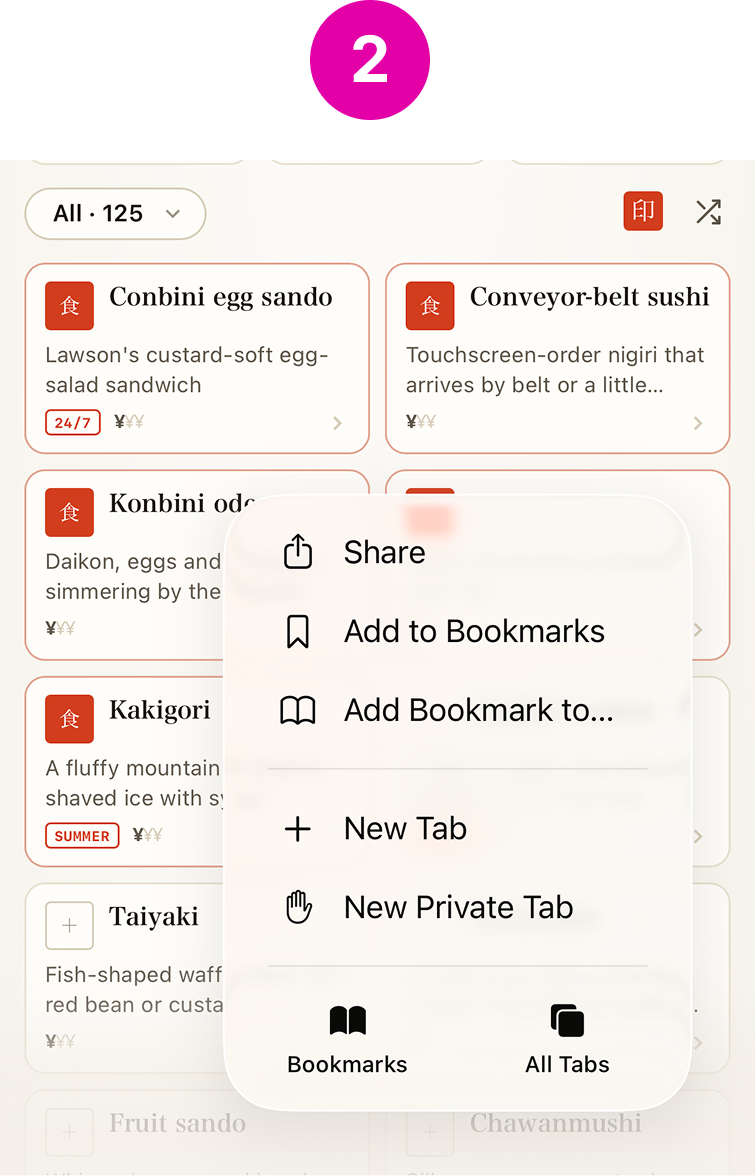
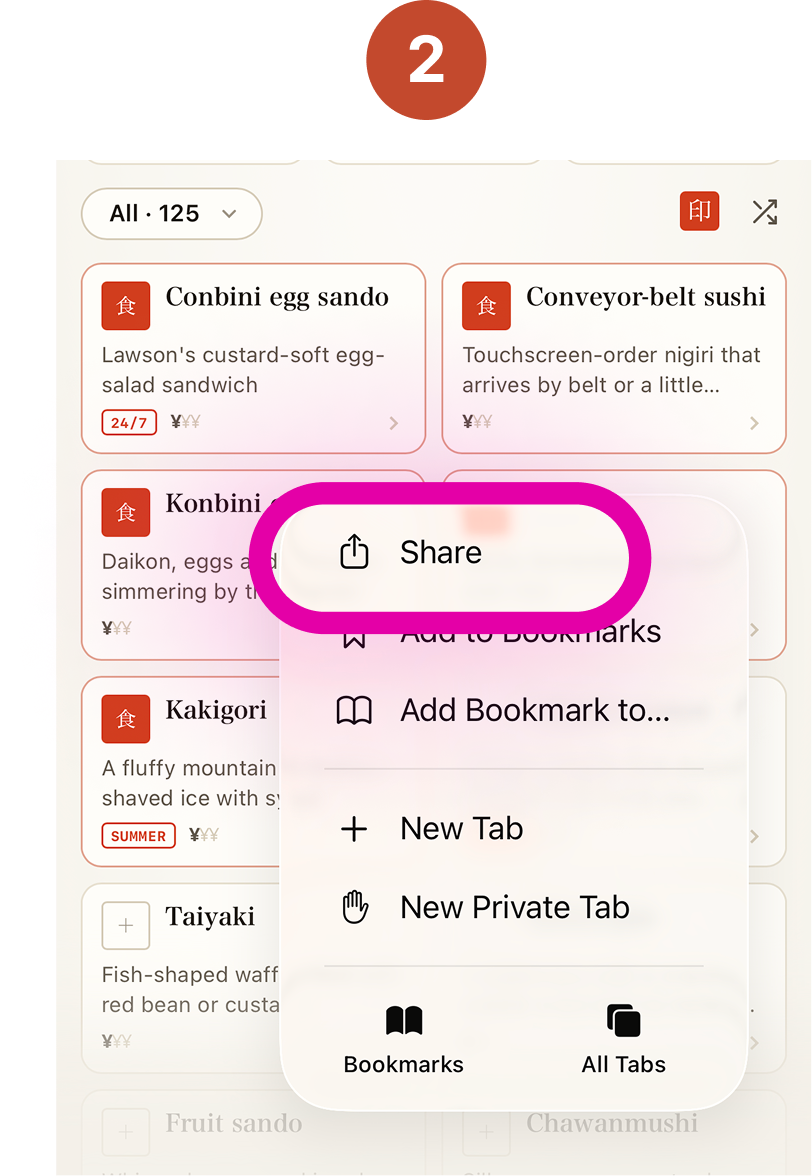
Refine A2HS hint: plain bold steps, expandable screenshot carousel
- Drop bordered chips for bold inline text; remove quotes around View More
- Add "wut?" toggle that reveals a scroll-snap carousel of the three
  add-to-home screenshots, sized so ~10% of the next slide peeks
- Panel height hugs the screenshots instead of forcing full screen
- Keep the tooltip triangle in the expanded state
- Guard against showing inside the installed PWA via display-mode media query

diff --git a/index.html b/index.html
@@ -661,19 +661,19 @@
   .a2hs-wut,.a2hs-hide{align-self:center;margin-top:10px;border:0;background:none;color:inherit;
     opacity:.78;font:inherit;font-size:.8rem;font-weight:600;cursor:pointer;padding:5px 12px;
     text-decoration:underline;text-underline-offset:3px}
-  /* carousel — hidden until expanded */
+  /* carousel — hidden until expanded; panel just hugs the screenshot height */
   .a2hs-car,.a2hs-hide{display:none}
   .a2hs-car{gap:10px;overflow-x:auto;scroll-snap-type:x mandatory;-webkit-overflow-scrolling:touch;
-    margin-top:12px;flex:1;align-items:center;padding-bottom:4px;scrollbar-width:none}
+    margin-top:12px;align-items:flex-start;padding-bottom:4px;scrollbar-width:none}
   .a2hs-car::-webkit-scrollbar{display:none}
-  .a2hs-car img{flex:0 0 66%;width:66%;height:auto;object-fit:contain;
-    scroll-snap-align:center;border-radius:12px;box-shadow:0 4px 16px rgba(0,0,0,.35)}
-  /* expanded: grow to almost full screen, swap wut?→hide, reveal carousel */
-  .a2hs.expanded{top:calc(20px + env(safe-area-inset-top))}
-  .a2hs.expanded::after{display:none}
+  .a2hs-car img{flex:0 0 88%;width:88%;height:auto;max-height:64vh;object-fit:contain;
+    scroll-snap-align:start;border-radius:12px;box-shadow:0 4px 16px rgba(0,0,0,.35)}
+  /* expanded: swap wut?→hide, reveal carousel (height follows the screenshots) */
   .a2hs.expanded .a2hs-wut{display:none}
   .a2hs.expanded .a2hs-hide{display:block}
   .a2hs.expanded .a2hs-car{display:flex}
+  /* never show inside the installed PWA */
+  @media (display-mode:standalone){.a2hs{display:none!important}}
 </style>
 </head>
 <body>